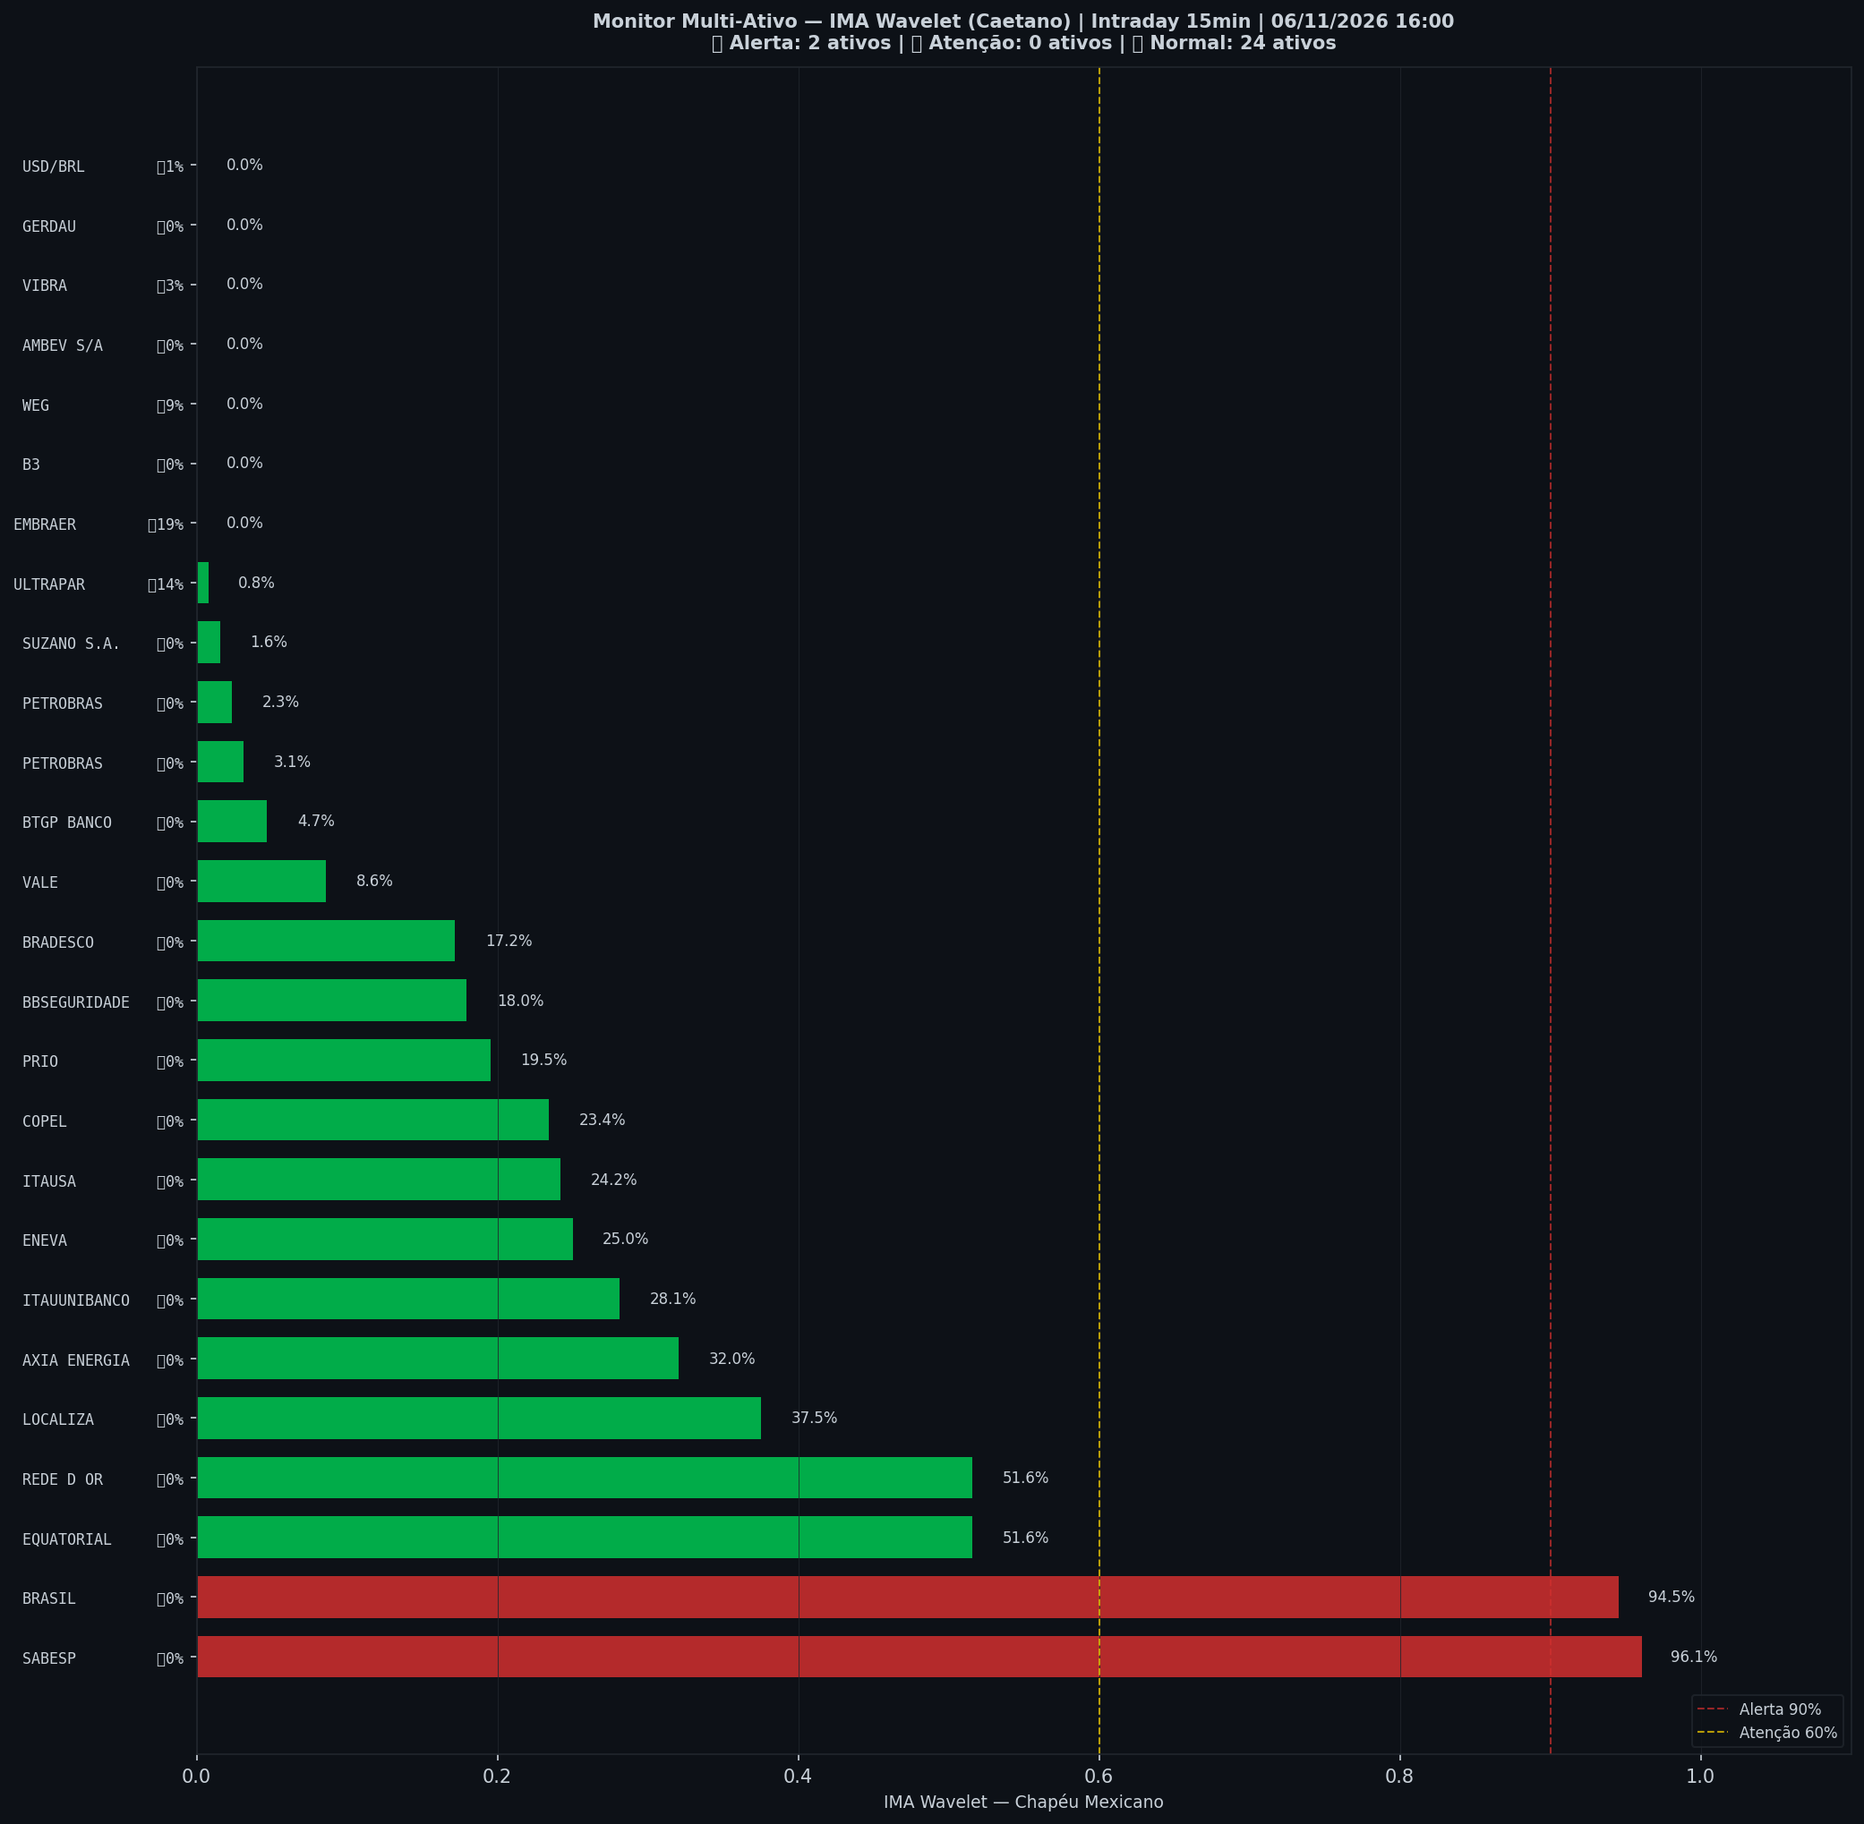
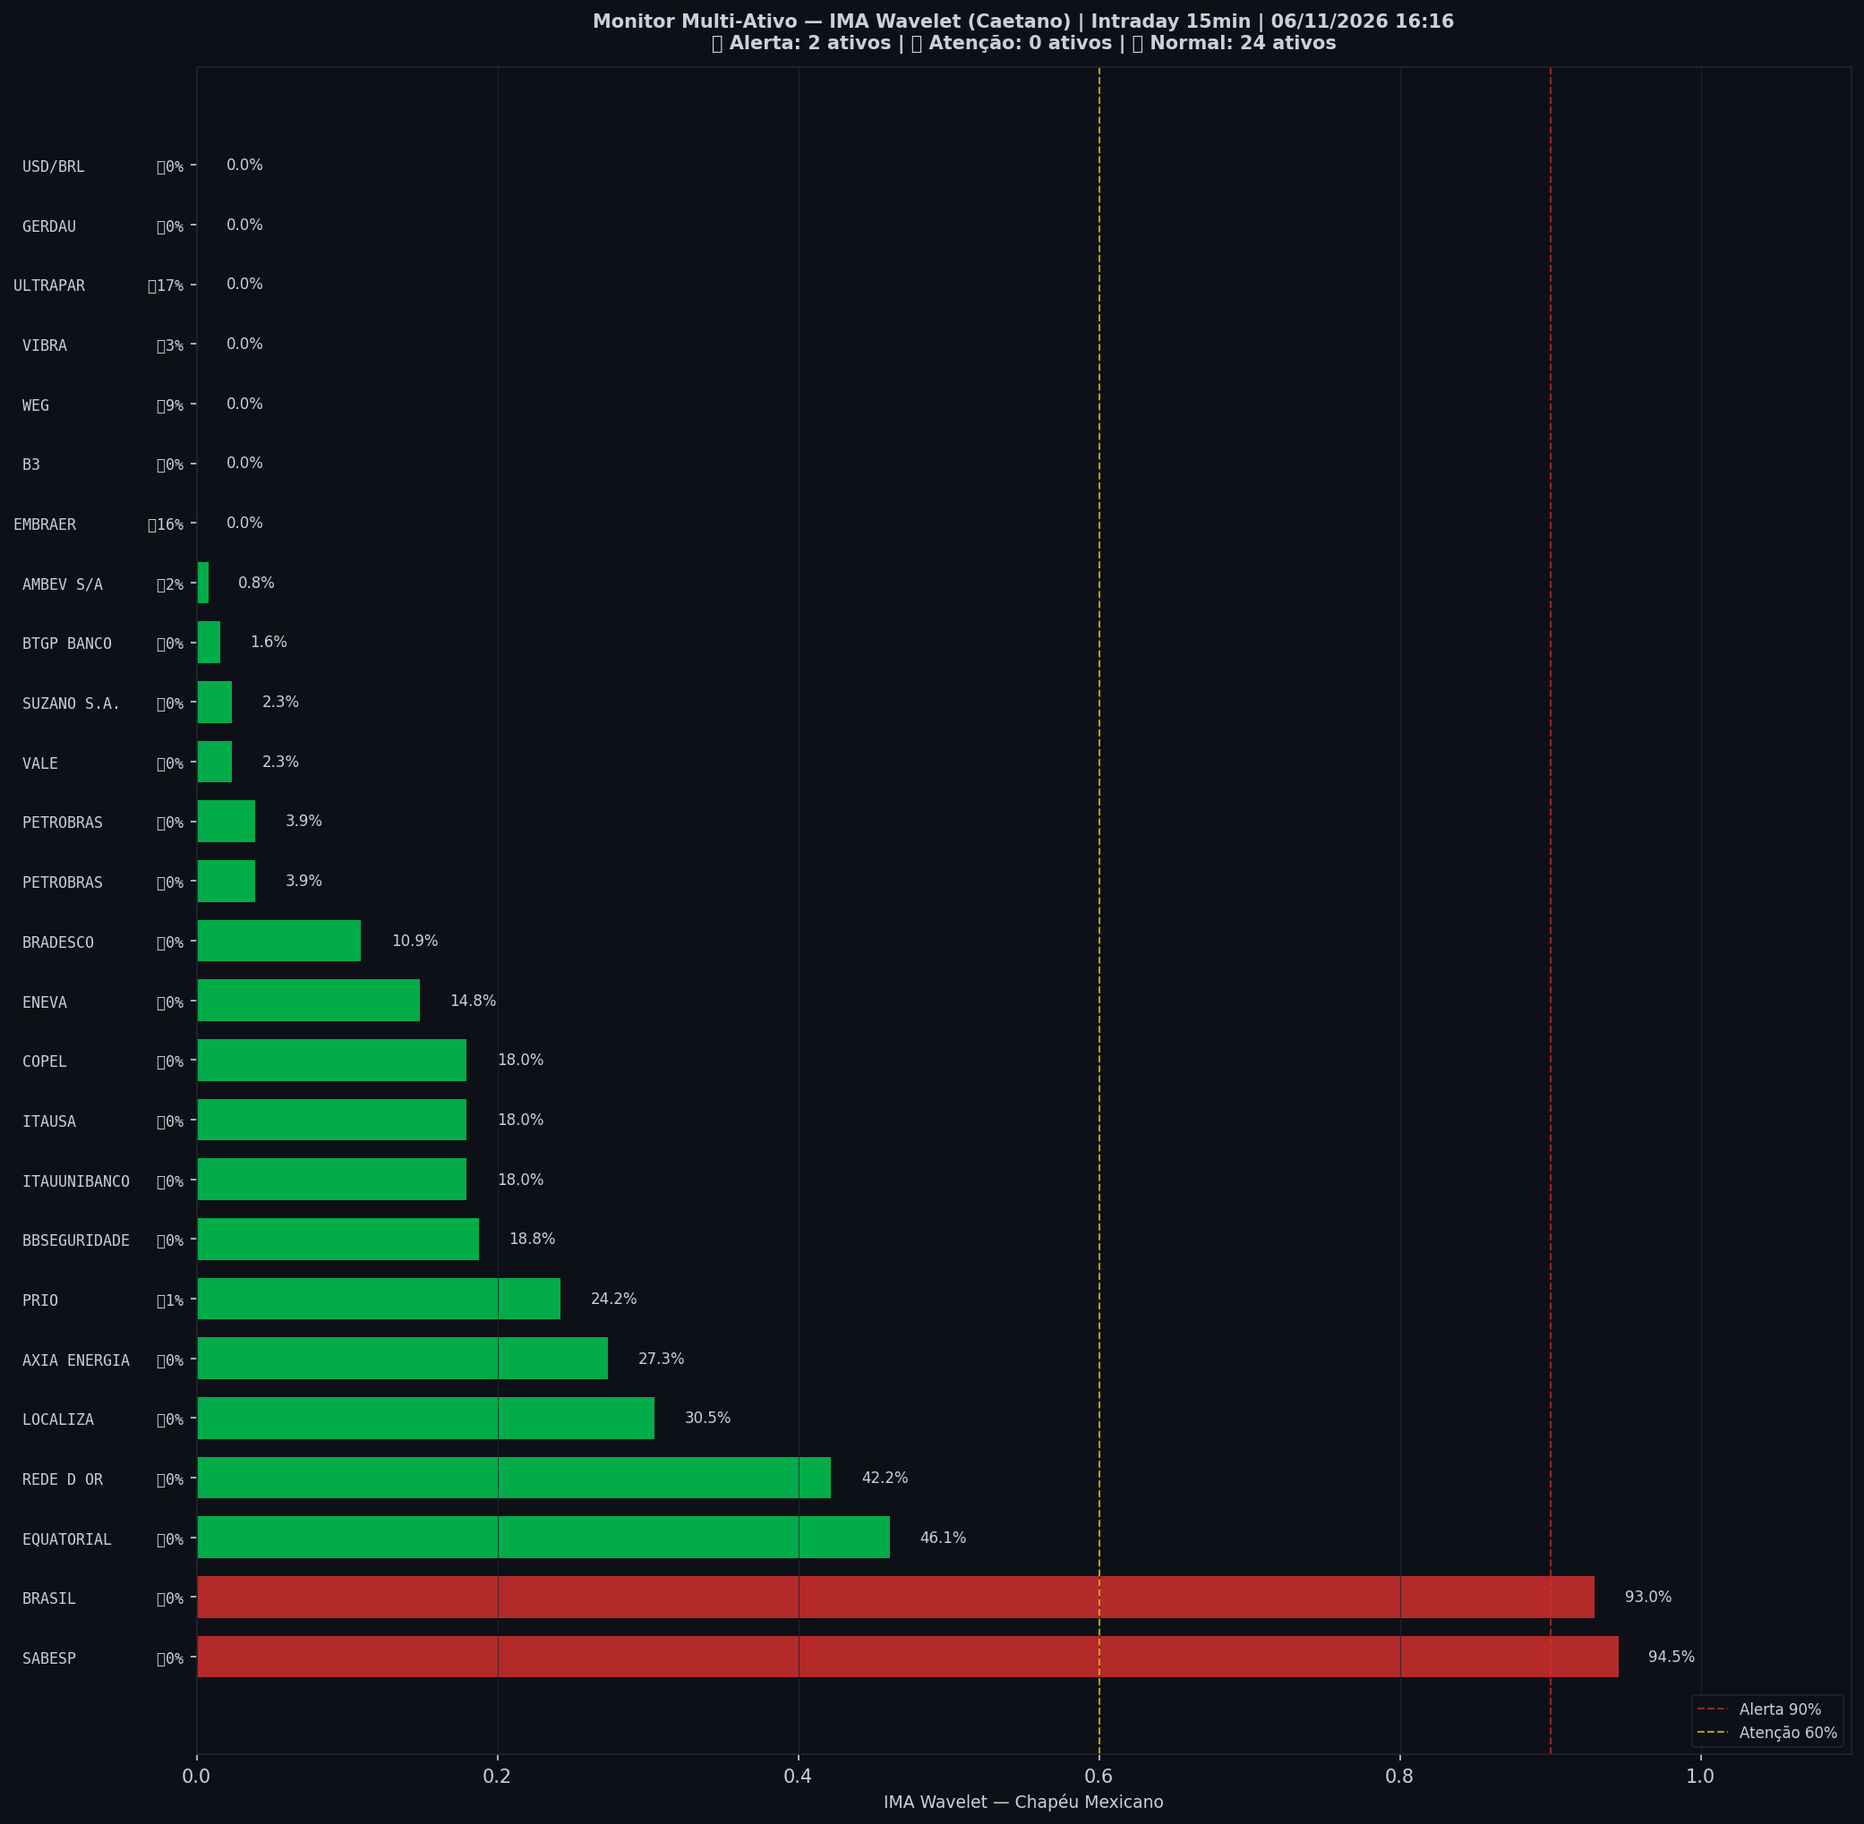
🤖 Auto: Sinal 06/11/2026 16:16

diff --git a/content/intraday/2026-11-06.md b/content/intraday/2026-11-06.md
@@ -1,10 +1,10 @@
 ---
-title: "🟢 Intraday 06/11/2026 15:45 BRT — VERDE"
+title: "🟢 Intraday 06/11/2026 16:00 BRT — VERDE"
 date: 2026-11-06
 tags: [intraday]
 ---
 
-> [!success] Onde o mercado está agora (06/11 15:45, candles de 15 min): **🟢 Calmo**
+> [!success] Onde o mercado está agora (06/11 16:00, candles de 15 min): **🟢 Calmo**
 > `Pânico ◀─────────────●───────▶ Euforia`
 >
 > O Ibovespa está dentro da sua faixa normal, sem excesso para cima nem para baixo.
@@ -20,8 +20,8 @@ tags: [intraday]
 > | 📍 **Sinais** | hoje: nenhum sinal | [abrir](sinais-topo-fundo/) |
 > | 🧪 **Placar ao vivo** | 1 operação(ões), 0 com lucro, soma -0,8% | [abrir](operacoes/) |
 
-> [!success] IMA Intraday · 15 min (06/11 15:45): 🟢 **VERDE** — Risco 34% · ▼ -5 p.p. vs leitura anterior
-> `███████░░░░░░░░░░░░░`
+> [!success] IMA Intraday · 15 min (06/11 16:00): 🟢 **VERDE** — Risco 28% · ▼ -5 p.p. vs leitura anterior
+> `██████░░░░░░░░░░░░░░`
 > Preço na faixa normal em torno da tendência.
 
 
@@ -32,13 +32,13 @@ tags: [intraday]
 >
 > *Leitura educacional baseada em 26 anos de dados, não recomendação. [Como usar](../metodologia/crise#3-como-usar-na-prática).*
 
-| Indicador — IMA Intraday · 15 min (06/11 15:45) | Valor |
+| Indicador — IMA Intraday · 15 min (06/11 16:00) | Valor |
 |---|---|
-| 🔴 ζ Topo — preço esticado acima da tendência | **34%** |
+| 🔴 ζ Topo — preço esticado acima da tendência | **28%** |
 | 🔵 ζ Fundo — preço esticado abaixo da tendência | 0% |
 | 🫧 LPPL bolha — alta super-exponencial (risco de crash) | 0% |
 | 🫧 LPPL antibolha — queda super-exponencial (risco de repique) | 0% |
-| 📊 Ibovespa | 168.515 pts |
+| 📊 Ibovespa | 168.294 pts |
 
 ![Gráfico do sinal](../graficos/sinal_intraday.png)
 
@@ -46,6 +46,7 @@ tags: [intraday]
 
 | Data | Zona | Evento | Risco | ζ Topo | ζ Fundo | LPPL |
 |---|---|---|---|---|---|---|
+| 2026-11-06 16:00 | 🟢 VERDE |  | **28%** | 28% | 0% | 0% |
 | 2026-11-06 15:45 | 🟢 VERDE |  | **34%** | 34% | 0% | 0% |
 | 2026-11-06 15:30 | 🟢 VERDE |  | **39%** | 39% | 0% | 0% |
 | 2026-11-06 15:15 | 🟢 VERDE |  | **41%** | 41% | 0% | 0% |
@@ -75,51 +76,50 @@ tags: [intraday]
 | 2026-11-05 17:30 | 🟢 VERDE |  | **0%** | 0% | 0% | 0% |
 | 2026-11-05 17:15 | 🟢 VERDE |  | **0%** | 0% | 0% | 0% |
 | 2026-11-05 17:00 | 🟢 VERDE |  | **0%** | 0% | 0% | 0% |
-| 2026-11-05 16:45 | 🟢 VERDE |  | **0%** | 0% | 0% | 0% |
 
 <small>Destaques: 🟡 ≥ 60% · 🔴 ≥ 90% (Risco e ζ Topo) · 🔵 ≥ 60% · 🔪 ≥ 90% (ζ Fundo) · 🫧 ≥ 30% · 🫧🔴 ≥ 50% (LPPL)</small>
 
 ## Monitor Multi-Ativo
 
-**8% dos ativos em tensão** (2🔴 2🟡) · **0 com ζ Fundo alto** — quanto mais ativos disparam juntos, mais confiável o sinal.
+**8% dos ativos em tensão** (2🔴 1🟡) · **0 com ζ Fundo alto** — quanto mais ativos disparam juntos, mais confiável o sinal.
 
 > [!danger] Em destaque no multi-ativo
-> 🔴 **SABESP** ζ Topo 96% · 🔴 **BRASIL** ζ Topo 95%
+> 🔴 **SABESP** ζ Topo 95% · 🔴 **BRASIL** ζ Topo 93%
 
 | Zona | Ativo | Setor | ζ Topo | ζ Fundo |
 |---|---|---|---|---|
-| 🔴 | **SABESP** | Saneamento | 🔴 **96.1%** | 0.0% |
-| 🔴 | **BRASIL** | Financeiro | 🔴 **94.5%** | 0.0% |
-| 🟡 | **EQUATORIAL** | Energia | 51.6% | 0.0% |
-| 🟡 | **REDE D OR** | Saúde | 51.6% | 0.0% |
-| 🟢 | **LOCALIZA** | Aluguel | 37.5% | 0.0% |
-| 🟢 | **AXIA ENERGIA** | Energia | 32.0% | 0.0% |
-| 🟢 | **ITAUUNIBANCO** | Financeiro | 28.1% | 0.0% |
-| 🟢 | **ENEVA** | Energia | 25.0% | 0.0% |
-| 🟢 | **ITAUSA** | Financeiro | 24.2% | 0.0% |
-| 🟢 | **COPEL** | Energia | 23.4% | 0.0% |
-| 🟢 | **PRIO** | Petróleo | 19.5% | 0.0% |
-| 🟢 | **EMBRAER** | Outros | 0.0% | 18.8% |
-| 🟢 | **BBSEGURIDADE** | Financeiro | 18.0% | 0.0% |
-| 🟢 | **BRADESCO** | Financeiro | 17.2% | 0.0% |
-| 🟢 | **ULTRAPAR** | Outros | 0.8% | 14.1% |
-| 🟢 | **VALE** | Mineração | 8.6% | 0.0% |
-| 🟢 | **WEG** | Industrial | 0.0% | 8.6% |
-| 🟢 | **BTGP BANCO** | Financeiro | 4.7% | 0.0% |
-| 🟢 | **PETROBRAS** | Petróleo | 3.1% | 0.0% |
+| 🔴 | **SABESP** | Saneamento | 🔴 **94.5%** | 0.0% |
+| 🔴 | **BRASIL** | Financeiro | 🔴 **93.0%** | 0.0% |
+| 🟡 | **EQUATORIAL** | Energia | 46.1% | 0.0% |
+| 🟢 | **REDE D OR** | Saúde | 42.2% | 0.0% |
+| 🟢 | **LOCALIZA** | Aluguel | 30.5% | 0.0% |
+| 🟢 | **AXIA ENERGIA** | Energia | 27.3% | 0.0% |
+| 🟢 | **PRIO** | Petróleo | 24.2% | 0.8% |
+| 🟢 | **BBSEGURIDADE** | Financeiro | 18.8% | 0.0% |
+| 🟢 | **ITAUUNIBANCO** | Financeiro | 18.0% | 0.0% |
+| 🟢 | **ITAUSA** | Financeiro | 18.0% | 0.0% |
+| 🟢 | **COPEL** | Energia | 18.0% | 0.0% |
+| 🟢 | **ULTRAPAR** | Outros | 0.0% | 17.2% |
+| 🟢 | **EMBRAER** | Outros | 0.0% | 16.4% |
+| 🟢 | **ENEVA** | Energia | 14.8% | 0.0% |
+| 🟢 | **BRADESCO** | Financeiro | 10.9% | 0.0% |
+| 🟢 | **WEG** | Industrial | 0.0% | 9.4% |
+| 🟢 | **PETROBRAS** | Petróleo | 3.9% | 0.0% |
+| 🟢 | **PETROBRAS** | Petróleo | 3.9% | 0.0% |
 | 🟢 | **VIBRA** | Energia | 0.0% | 3.1% |
-| 🟢 | **PETROBRAS** | Petróleo | 2.3% | 0.0% |
-| 🟢 | **SUZANO S.A.** | Papel/Celulose | 1.6% | 0.0% |
-| 🟢 | **USD/BRL** | Câmbio | 0.0% | 0.8% |
+| 🟢 | **VALE** | Mineração | 2.3% | 0.0% |
+| 🟢 | **SUZANO S.A.** | Papel/Celulose | 2.3% | 0.0% |
+| 🟢 | **BTGP BANCO** | Financeiro | 1.6% | 0.0% |
+| 🟢 | **AMBEV S/A** | Consumo | 0.8% | 1.6% |
 | 🟢 | **B3** | Financeiro | 0.0% | 0.0% |
-| 🟢 | **AMBEV S/A** | Consumo | 0.0% | 0.0% |
 | 🟢 | **GERDAU** | Siderurgia | 0.0% | 0.0% |
+| 🟢 | **USD/BRL** | Câmbio | 0.0% | 0.0% |
 
 <small>Destaques: 🟡 ≥ 60% · 🔴 ≥ 90% (Risco e ζ Topo) · 🔵 ≥ 60% · 🔪 ≥ 90% (ζ Fundo) · 🫧 ≥ 30% · 🫧🔴 ≥ 50% (LPPL)</small>
 
 ![Monitor multi-ativo](../graficos/multi_intraday.png)
 
-*Página atualizada em 06/11/2026 16:00 BRT (leitura da barra de 2026-11-06 15:45 BRT).*
+*Página atualizada em 06/11/2026 16:16 BRT (leitura da barra de 2026-11-06 16:00 BRT).*
 
 > [!warning] O que este indicador não faz
 > Medido em 5 anos de Ibovespa, o ζ **não antecipa** topos nem fundos: a capacidade de separar o que sobe do que cai ficou em 0,49–0,52, e 0,50 é moeda jogada ao ar. Ele descreve o estado de agora; não é aviso do que vem. As zonas verde/amarelo/vermelho continuam na página como descrição desse estado — **não as use como sinal de entrada ou saída**.

diff --git a/content/index.md b/content/index.md
@@ -6,9 +6,9 @@ tags: [home]
 
 **As ondas do mercado, explicadas.** Leitura do Ibovespa com estatística de 26 anos, baseada no trabalho de pesquisadores e traders reconhecidos e adaptada por Jarbas Daniel da Costa.
 
-*Última atualização: 06/11/2026 16:00 BRT · Intraday 15min*
+*Última atualização: 06/11/2026 16:16 BRT · Intraday 15min*
 
-> [!success] Onde o mercado está agora (06/11 15:45, candles de 15 min): **🟢 Calmo**
+> [!success] Onde o mercado está agora (06/11 16:00, candles de 15 min): **🟢 Calmo**
 > `Pânico ◀─────────────●───────▶ Euforia`
 >
 > O Ibovespa está dentro da sua faixa normal, sem excesso para cima nem para baixo.
@@ -20,7 +20,7 @@ tags: [home]
 
 | Módulo | Agora | |
 |---|---|---|
-| 🌊 **Sinal de Crise** | 🟢 VERDE · 🟢 calmo · ζ Topo 34% | [relatório](intraday/2026-11-06) |
+| 🌊 **Sinal de Crise** | 🟢 VERDE · 🟢 calmo · ζ Topo 28% | [relatório](intraday/2026-11-06) |
 | 📈 **Tendência MME9** | Diário — fora<br>Semanal — fora | [abrir](operacoes/tendencia) |
 | 🎯 **Entradas do método** | ⏳ aguardando: Diário · Nadaraya, Diário · Semáforo N3 após ζ Fundo | [abrir](operacoes/entradas) |
 | 📍 **Sinais** | hoje: nenhum sinal | [abrir](sinais-topo-fundo/) |
@@ -54,26 +54,26 @@ tags: [home]
 > *Leitura educacional baseada em 26 anos de dados, não recomendação. [Como usar](metodologia/crise#3-como-usar-na-prática).*
 
 > [!info]- 🌊 Detalhes do Sinal de Crise (indicadores e últimos 7 pregões)
-> > [!success] IMA Intraday · 15 min (06/11 15:45): 🟢 **VERDE** — Risco 34% · ▼ -5 p.p. vs leitura anterior
-> > `███████░░░░░░░░░░░░░`
+> > [!success] IMA Intraday · 15 min (06/11 16:00): 🟢 **VERDE** — Risco 28% · ▼ -5 p.p. vs leitura anterior
+> > `██████░░░░░░░░░░░░░░`
 > > Preço na faixa normal em torno da tendência.
 >
 >
-> | Indicador — IMA Intraday · 15 min (06/11 15:45) | Valor |
+> | Indicador — IMA Intraday · 15 min (06/11 16:00) | Valor |
 > |---|---|
-> | 🔴 ζ Topo — preço esticado acima da tendência | **34%** |
+> | 🔴 ζ Topo — preço esticado acima da tendência | **28%** |
 > | 🔵 ζ Fundo — preço esticado abaixo da tendência | 0% |
 > | 🫧 LPPL bolha — alta super-exponencial (risco de crash) | 0% |
 > | 🫧 LPPL antibolha — queda super-exponencial (risco de repique) | 0% |
-> | 📊 Ibovespa | 168.515 pts |
+> | 📊 Ibovespa | 168.294 pts |
 >
-> **Multi-ativo:** 8% em tensão (2🔴 2🟡 de 26 ativos)
+> **Multi-ativo:** 8% em tensão (2🔴 1🟡 de 26 ativos)
 >
 > **Últimos 7 pregões**
 >
 > | Data | Zona | Risco | ζ Topo | ζ Fundo | LPPL |
 > |---|---|---|---|---|---|
-> | [06/11/2026](intraday/2026-11-06) | 🟢 VERDE | **34%** | 34% | 0% | 0% |
+> | [06/11/2026](intraday/2026-11-06) | 🟢 VERDE | **28%** | 28% | 0% | 0% |
 > | [05/11/2026](intraday/2026-11-05) | 🟢 VERDE | **0%** | 0% | 0% | 0% |
 >
 > <small>Destaques: 🟡 ≥ 60% · 🔴 ≥ 90% (Risco e ζ Topo) · 🔵 ≥ 60% · 🔪 ≥ 90% (ζ Fundo) · 🫧 ≥ 30% · 🫧🔴 ≥ 50% (LPPL)</small>

diff --git a/content/operacoes/entradas.md b/content/operacoes/entradas.md
@@ -31,7 +31,7 @@ description: "Compra depois de um sinal de fundo: Nadaraya no diário, semáforo
 > | Diário · Semáforo N3 após ζ Fundo | 07/07/26 a 172.021 | 10/08/26 a 172.021 | **+0,0%** | stop no preço de entrada |
 > | H4 · Semáforo N2 | 12/06/26 14h a 171.134 | 15/06/26 14h a 171.134 | **+0,0%** | stop no preço de entrada |
 >
-> <small>Atualizado 05/11 19:00 · checado no pregão às 16:00. Nota: ✅ passou no teste fora da amostra (walk-forward 2008–2026) · 🧪 em teste (H4, com aviso no Telegram) ou em observação (ζ, sem aviso) · 🧪 na tabela = operação do teste ao vivo.</small>
+> <small>Atualizado 05/11 19:00 · checado no pregão às 16:15. Nota: ✅ passou no teste fora da amostra (walk-forward 2008–2026) · 🧪 em teste (H4, com aviso no Telegram) ou em observação (ζ, sem aviso) · 🧪 na tabela = operação do teste ao vivo.</small>
 >
 > *Regras: depois de um sinal de fundo, o Diário entra quando o Nadaraya vira para cima; o Semanal e o H4 entram quando um fundo do semáforo fica fixo. Stop e saída de cada regra na [metodologia](metodologia/regras-de-operacao#entradas-do-método). Nenhuma regra de venda passou no teste. Os números do histórico têm viés de escolha (overfitting); o placar ao vivo é o que vale. Leitura educacional do método, não recomendação.*
 

diff --git a/content/historico.md b/content/historico.md
@@ -5,7 +5,7 @@ tags: [historico]
 
 # 📜 Histórico de leituras (v5)
 
-**2.200 leituras** desde 2026-07-03. Na página ficam os últimos 3 dias leitura por leitura e o resumo de cada dia anterior; o registro inteiro está no arquivo para baixar.
+**2.201 leituras** desde 2026-07-03. Na página ficam os últimos 3 dias leitura por leitura e o resumo de cada dia anterior; o registro inteiro está no arquivo para baixar.
 
 [**Baixar o histórico completo**](historico-completo.csv) (96 KB · abre no Excel e no LibreOffice)
 
@@ -16,6 +16,7 @@ tags: [historico]
 
 | Data | Modo | Zona | Risco | IMA | LPPL |
 |---|---|---|---|---|---|
+| 2026-11-06 16:00 | intraday | 🟢 VERDE | 28% | 28% | 0% |
 | 2026-11-06 15:45 | intraday | 🟢 VERDE | 34% | 34% | 0% |
 | 2026-11-06 15:30 | intraday | 🟢 VERDE | 39% | 39% | 0% |
 | 2026-11-06 15:15 | intraday | 🟢 VERDE | 41% | 41% | 0% |

diff --git a/content/operacoes/ranking.md b/content/operacoes/ranking.md
@@ -5,7 +5,7 @@ tags: [operacoes]
 description: "As regras de compra do site ordenadas pelo resultado, com treino, teste e placar ao vivo"
 ---
 
-*Atualizado 06/11/2026 16:00 · histórico simulado com as regras congeladas em 23/10/2026 + placar ao vivo.*
+*Atualizado 06/11/2026 16:16 · histórico simulado com as regras congeladas em 23/10/2026 + placar ao vivo.*
 
 As regras de compra do site, **da que mais rendeu para a que menos rendeu**. O resultado é por operação, no índice à vista, sem custos e sem juros compostos (a soma é só a soma das operações). **Treino** = entradas de 2001 a 2013 e **teste** = 2014 em diante: uma regra só é confiável se ganhou nos dois. O único resultado sem nenhum ajuste ao histórico é o **placar ao vivo**.
 

diff --git a/content/linha-do-tempo/index.md b/content/linha-do-tempo/index.md
@@ -5,7 +5,7 @@ description: "Todo sinal, ordem, stop e aviso do Pêndulo de Mercado, do mais re
 tags: [eventos]
 ---
 
-*Atualizada 06/11/2026 16:00 BRT · a cada 15 min no pregão e às 19h.*
+*Atualizada 06/11/2026 16:16 BRT · a cada 15 min no pregão e às 19h.*
 
 Tudo o que o sistema fez ou detectou, **do mais recente para o mais antigo**: sinais de topo e fundo, ordens de compra e de venda armadas, compras, vendas, stops, avisos de 🚨 preço perto do nível e mudanças da Crise. Os **últimos 7 dias** ficam abertos; o resto, por **ano → mês → dia**.
 
